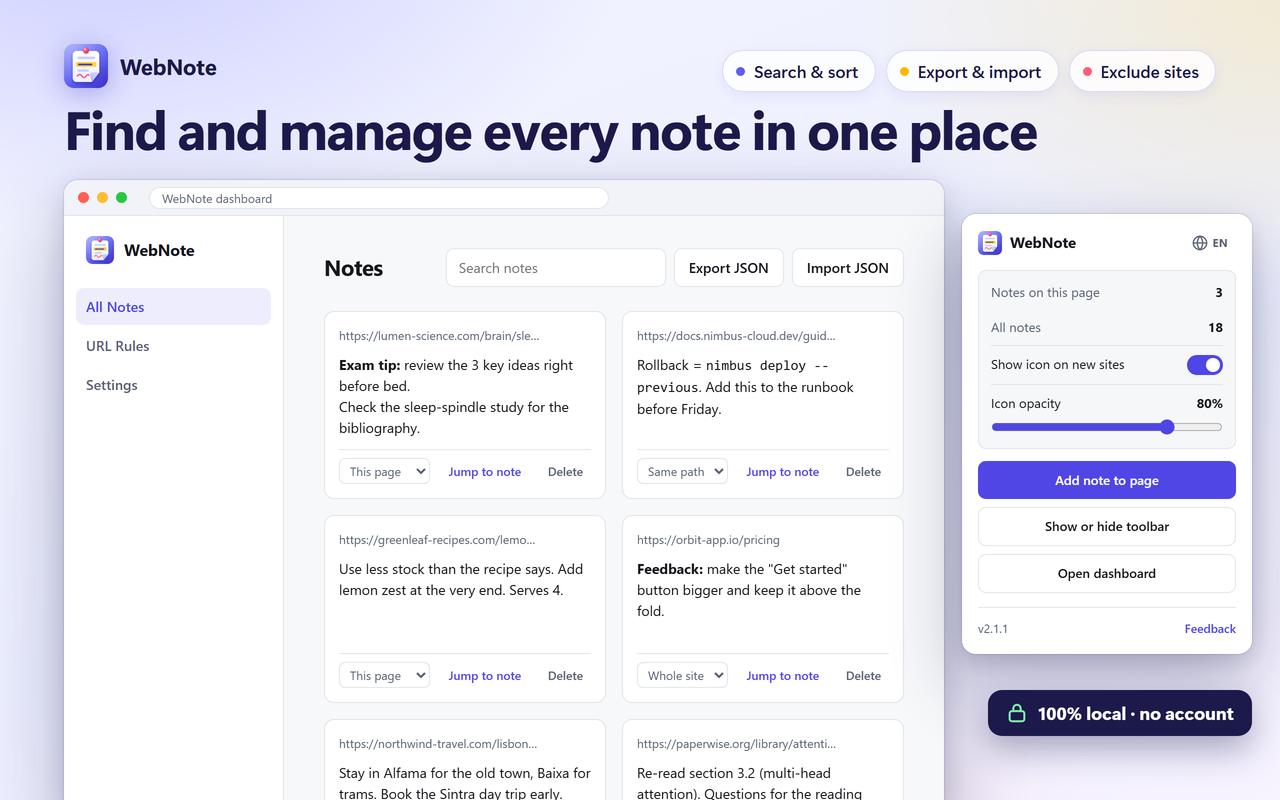
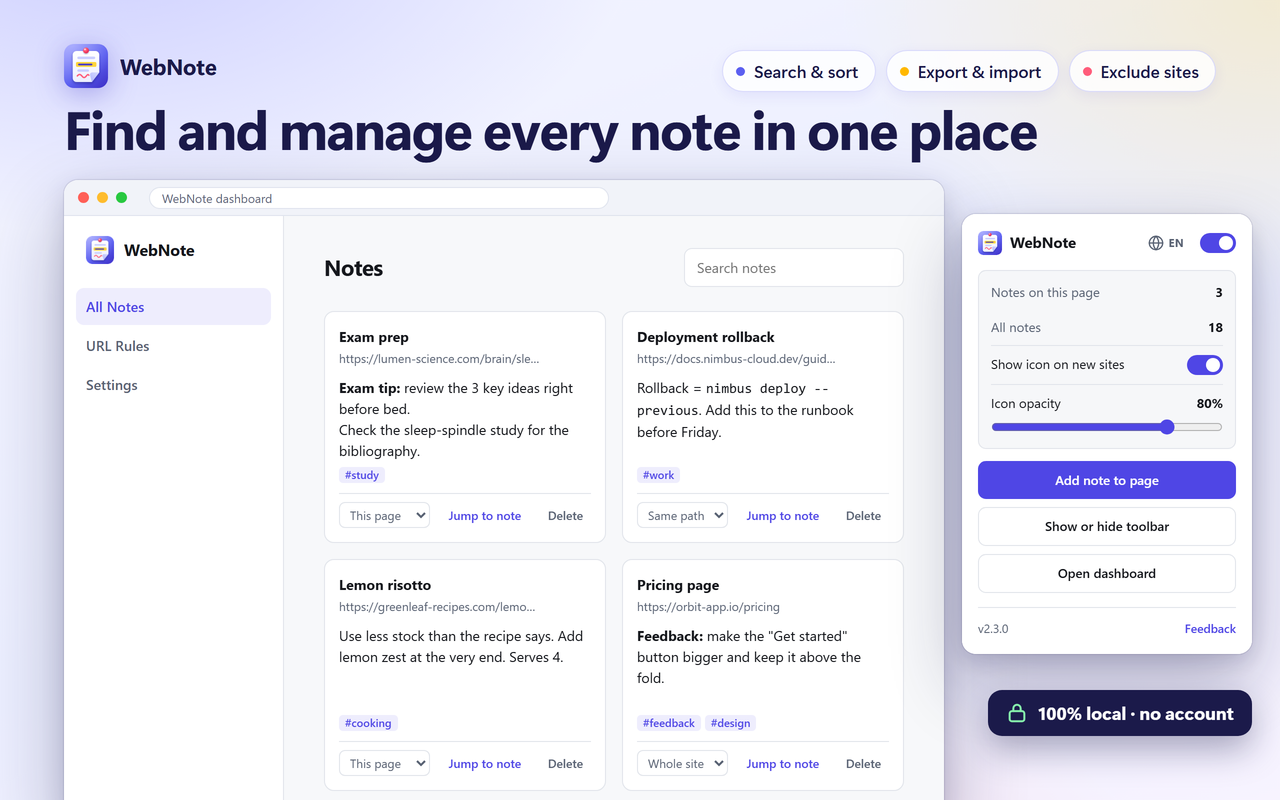
docs: bring the store material up to WebNote 2.3.0
- The screenshot generator's chrome.* stand-in answers storage reads that use a
  callback (used since the on/off switch; without it four images failed to
  render) and the content script's GET_CONTENT_CSS request.
- Demo notes on the dashboard have titles and tags; screenshot 5 re-rendered.
  Screenshots 1-4 and the promo tiles render unchanged.
- Listing and notes no longer mention a Cloud Sync switch; moving data between
  devices is described as backup and restore in the settings.

diff --git a/store-assets/_source/scenes/seeds/dash.js b/store-assets/_source/scenes/seeds/dash.js
@@ -1,14 +1,14 @@
 // Scene 5: the notes dashboard with realistic notes.
 window.__SEED = () => {
-  const mk = (id, url, content, urlScope = 'exact', hidden = false) => ({ id, url, content, urlScope, hidden, title: '', tags: [], x: 60, y: 120, pageX: 60, pageY: 120, width: 280, height: 220, displayMode: 'full', color: null, pinned: false });
+  const mk = (id, title, tags, url, content, urlScope = 'exact', hidden = false) => ({ id, url, content, urlScope, hidden, title, tags, x: 60, y: 120, pageX: 60, pageY: 120, width: 280, height: 220, displayMode: 'full', color: null, pinned: false });
   return {
     notes: [
-      mk('1700000000001', 'https://lumen-science.com/brain/sleep-and-memory', '<b>Exam tip:</b> review the 3 key ideas right before bed.<br>Check the sleep-spindle study for the bibliography.'),
-      mk('1700000000002', 'https://docs.nimbus-cloud.dev/guides/deployments', 'Rollback = <code>nimbus deploy --previous</code>. Add this to the runbook before Friday.', 'path'),
-      mk('1700000000003', 'https://greenleaf-recipes.com/lemon-risotto', 'Use less stock than the recipe says. Add lemon zest at the very end. Serves 4.', 'exact'),
-      mk('1700000000004', 'https://orbit-app.io/pricing', '<b>Feedback:</b> make the "Get started" button bigger and keep it above the fold.', 'domain'),
-      mk('1700000000005', 'https://northwind-travel.com/lisbon/neighborhoods', 'Stay in Alfama for the old town, Baixa for trams. Book the Sintra day trip early.', 'exact'),
-      mk('1700000000006', 'https://paperwise.org/library/attention-is-all-you-need', 'Re-read section 3.2 (multi-head attention). Questions for the reading group on Thursday.', 'exact'),
+      mk('1700000000001', 'Exam prep', ['study'], 'https://lumen-science.com/brain/sleep-and-memory', '<b>Exam tip:</b> review the 3 key ideas right before bed.<br>Check the sleep-spindle study for the bibliography.'),
+      mk('1700000000002', 'Deployment rollback', ['work'], 'https://docs.nimbus-cloud.dev/guides/deployments', 'Rollback = <code>nimbus deploy --previous</code>. Add this to the runbook before Friday.', 'path'),
+      mk('1700000000003', 'Lemon risotto', ['cooking'], 'https://greenleaf-recipes.com/lemon-risotto', 'Use less stock than the recipe says. Add lemon zest at the very end. Serves 4.', 'exact'),
+      mk('1700000000004', 'Pricing page', ['feedback', 'design'], 'https://orbit-app.io/pricing', '<b>Feedback:</b> make the "Get started" button bigger and keep it above the fold.', 'domain'),
+      mk('1700000000005', 'Lisbon trip', ['travel'], 'https://northwind-travel.com/lisbon/neighborhoods', 'Stay in Alfama for the old town, Baixa for trams. Book the Sintra day trip early.', 'exact'),
+      mk('1700000000006', 'Reading group', ['research'], 'https://paperwise.org/library/attention-is-all-you-need', 'Re-read section 3.2 (multi-head attention). Questions for the reading group on Thursday.', 'exact'),
     ],
     rules: { hiddenUrls: ['mail.example.com', '/checkout'] },
   };

diff --git a/store-assets/_source/mock/chrome.js b/store-assets/_source/mock/chrome.js
@@ -76,14 +76,20 @@
     store = clone(s);
     return store;
   };
+  const read = (keys) => {
+    const st = ensure();
+    if (keys == null) return clone(st);
+    if (typeof keys === 'string') keys = [keys];
+    const out = {};
+    if (Array.isArray(keys)) keys.forEach((k) => { if (k in st) out[k] = clone(st[k]); });
+    else Object.keys(keys).forEach((k) => { out[k] = k in st ? clone(st[k]) : keys[k]; });
+    return out;
+  };
   const local = {
-    async get(keys) {
-      const st = ensure();
-      if (keys == null) return clone(st);
-      if (typeof keys === 'string') keys = [keys];
-      const out = {};
-      if (Array.isArray(keys)) keys.forEach((k) => { if (k in st) out[k] = clone(st[k]); });
-      else Object.keys(keys).forEach((k) => { out[k] = k in st ? clone(st[k]) : keys[k]; });
+    // like the real API: answers a callback if one is given, and returns a promise
+    async get(keys, callback) {
+      const out = read(keys);
+      if (typeof callback === 'function') setTimeout(() => callback(out), 0);
       return out;
     },
     async set(items) {
@@ -99,9 +105,15 @@
   window.chrome = {
     storage: { local, onChanged: { addListener: (cb) => listeners.push(cb) } },
     runtime: {
-      getManifest: () => ({ version: '2.1.1' }),
+      getManifest: () => ({ version: '2.3.0' }),
       getURL: (p) => '/ext/' + p,
-      sendMessage: (msg, cb) => { window.__sent.push(msg); if (typeof cb === 'function') setTimeout(() => cb({}), 0); return Promise.resolve({}); },
+      sendMessage: (msg, cb) => {
+        window.__sent.push(msg);
+        // the content script gets its stylesheet from the background worker
+        const reply = msg.action === 'GET_CONTENT_CSS' ? fetch('/ext/content.css').then((r) => r.text()).then((css) => ({ css })) : Promise.resolve({});
+        if (typeof cb === 'function') reply.then((v) => setTimeout(() => cb(v), 0));
+        return reply;
+      },
       onMessage: { addListener() {} },
       openOptionsPage() {},
       lastError: undefined,

diff --git a/store-assets/listing.md b/store-assets/listing.md
@@ -85,7 +85,7 @@ Can I draw on a web page?
 Yes. Choose the pen, a shape or an arrow in the toolbar and draw directly on the page.
 
 Do my notes sync between devices?
-No. Notes are stored locally in your browser. To move them, export a JSON backup in the dashboard and import it on the other device.
+No. Notes are stored locally in your browser. To move them, export a backup in the dashboard settings and restore it on the other device.
 
 Does WebNote work on every page?
 It works on normal web pages. Browsers do not allow extensions on internal pages (such as chrome:// or edge:// pages) or on the extension stores.
@@ -121,7 +121,7 @@ Chrome has no keyword field: search uses the name, the short description and the
 | web notes, notebook, research | description opening and "Perfect for" |
 | private, local, no account | summary, description opening, privacy section |
 
-Only features that exist in the code are described. Deliberately **not** claimed: cloud sync (the toggle in the dashboard does nothing yet), sync between devices, PDF annotation, ratings or "best" claims.
+Only features that exist in the code are described. Deliberately **not** claimed: cloud sync (there is none), sync between devices, PDF annotation, ratings or "best" claims.
 
 ## Chrome Web Store only: Privacy practices
 
@@ -219,5 +219,5 @@ Permissions
 
 ## Maintainer notes
 
-- The "Cloud Sync" switch in the dashboard has no function yet, so it is not advertised anywhere. Add it to the texts and a screenshot once it works.
+- There is no cloud sync: the switch that did nothing was removed from the dashboard. Data moves between devices through backup and restore.
 - A new name or summary goes live only with a higher `version` in `manifest.json`. Rebuild the Edge package after the bump: `store-kit\Build-EdgePackages.ps1 -Only WebNote -Local`.

diff --git a/store-assets/README.md b/store-assets/README.md
@@ -57,4 +57,4 @@ The screenshots are real captures: the real `content.js`, popup and dashboard ru
 
 ## Notes
 
-- The texts describe only features that exist in the code. The "Cloud Sync" switch in the dashboard has no function yet, so it is not advertised anywhere.
+- The texts describe only features that exist in the code. There is no cloud sync; data moves between devices through backup and restore.
